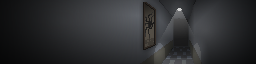
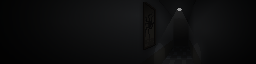
Feature: WIP settings screen

diff --git a/src/game/main_menu.go b/src/game/main_menu.go
@@ -19,20 +19,28 @@ import (
 	"github.com/solarlune/routine/actions"
 )
 
+const (
+	MENU_START = iota
+	MENU_SETTINGS
+	MENU_QUIT
+)
+
 type Main_Menu_Scene struct {
 	GameState        *Game_State
 	TimerSys         *ebitick.TimerSystem
 	CurrentStateName string
 	Routine          *routine.Routine
-	TitleText        *Text
-	SubtitleText     *Text
-	SubtitleFader    *effects.Fader
+	TextTitle        *Text
+	TextSubtitle     *Text
+	FaderSubtitle    *effects.Fader
 	ShowMenuTexts    bool
 	CanInteract      bool
-	DeskAnim         *AnimationPlayer
+	AnimDesk         *AnimationPlayer
+	AnimHallway      *AnimationPlayer
 	Flickering       bool
 	Texts            []*Text
 	CurrentIdx       int
+	SelectedIdx      int
 	Layer            *Layer
 }
 
@@ -66,7 +74,7 @@ func NewMainMenuScene(gameState *Game_State) *Main_Menu_Scene {
 	titleTxt.SetPos(conf.GAME_W/2, conf.GAME_H/2)
 	titleTxt.SetAlign(text.AlignCenter, text.AlignCenter)
 	titleTxt.SetColor(1, 1, 1, 1)
-	scene.TitleText = titleTxt
+	scene.TextTitle = titleTxt
 
 	resFontJamboree18 := gameState.Loader.LoadFont(assets.FontJamboree18)
 	keys := scene.GameState.InputHandler.ActionKeyNames(ActionEnter, input.KeyboardDevice)
@@ -77,28 +85,39 @@ func NewMainMenuScene(gameState *Game_State) *Main_Menu_Scene {
 	subtitleTxt.SetPos(conf.GAME_W/2, conf.GAME_H/2+titleTxt.DO.LineSpacing*2)
 	subtitleTxt.SetAlign(text.AlignCenter, text.AlignCenter)
 	subtitleTxt.SetColor(1, 1, 1, 1)
-	scene.SubtitleText = subtitleTxt
-	scene.SubtitleFader = effects.NewFader(0, 1, 1)
-	scene.SubtitleFader.Stopped = true
-
-	resDesk := gameState.Loader.LoadImage(assets.ImageSheetDesk)
+	scene.TextSubtitle = subtitleTxt
+	scene.FaderSubtitle = effects.NewFader(0, 1, 1)
+	scene.FaderSubtitle.Stopped = true
 
 	deskFrameW, deskFrameH := assets.SheetDeskFrameData.W, assets.SheetDeskFrameData.H
 	scaleDesk := float64(min(conf.GAME_W/deskFrameW, conf.GAME_H/deskFrameH))
-
-	scene.DeskAnim = NewAnimationPlayer(resDesk.Data)
-	scene.DeskAnim.AddStateAnimation("row1", 0, 0, deskFrameW, deskFrameH, assets.SheetDeskFrameData.MaxCols, false)
-	scene.DeskAnim.AddStateAnimation("row2", 0, 64, deskFrameW, deskFrameH, assets.SheetDeskFrameData.MaxCols, false)
-	scene.DeskAnim.AddStateAnimation("row3", 0, 128, deskFrameW, deskFrameH, 1, false)
-	scene.DeskAnim.AddStateAnimation("static", deskFrameW, 128, deskFrameW, deskFrameH, 1, false)
-	scene.DeskAnim.SetFPS(7)
-	utils.DIOReplaceAlpha(scene.DeskAnim.DIO, 1)
-	scene.DeskAnim.Update()
-
-	scene.DeskAnim.DIO.GeoM.Scale(scaleDesk, scaleDesk)
-	scene.DeskAnim.DIO.GeoM.Translate(
+	resDesk := gameState.Loader.LoadImage(assets.ImageSheetDesk)
+	scene.AnimDesk = NewAnimationPlayer(resDesk.Data)
+	scene.AnimDesk.AddStateAnimation("row1", 0, 0, deskFrameW, deskFrameH, assets.SheetDeskFrameData.MaxCols, false)
+	scene.AnimDesk.AddStateAnimation("row2", 0, 64, deskFrameW, deskFrameH, assets.SheetDeskFrameData.MaxCols, false)
+	scene.AnimDesk.AddStateAnimation("row3", 0, 128, deskFrameW, deskFrameH, 1, false)
+	scene.AnimDesk.AddStateAnimation("static", deskFrameW, 128, deskFrameW, deskFrameH, 1, false)
+	scene.AnimDesk.SetFPS(7)
+	utils.DIOReplaceAlpha(scene.AnimDesk.DIO, 1)
+	scene.AnimDesk.Update()
+	scene.AnimDesk.DIO.GeoM.Scale(scaleDesk, scaleDesk)
+	scene.AnimDesk.DIO.GeoM.Translate(
 		conf.GAME_W/2-float64(deskFrameW)*scaleDesk/2,
 		conf.GAME_H/2-float64(deskFrameH)*scaleDesk/2,
+	)
+
+	hallwayFrameW, hallwayFrameH := assets.BGHallwayFrameData.W, assets.BGHallwayFrameData.H
+	scaleHallway := float64(min(conf.GAME_W/hallwayFrameW, conf.GAME_H/hallwayFrameH))
+	resHallway := gameState.Loader.LoadImage(assets.ImageBGHallway)
+	scene.AnimHallway = NewAnimationPlayer(resHallway.Data)
+	scene.AnimHallway.AddStateAnimation("row1", 0, 0, hallwayFrameW, hallwayFrameH, assets.BGHallwayFrameData.MaxCols, false)
+	scene.AnimHallway.SetFPS(0)
+	utils.DIOReplaceAlpha(scene.AnimHallway.DIO, 1)
+	scene.AnimHallway.Update()
+	scene.AnimHallway.DIO.GeoM.Scale(scaleHallway, scaleHallway)
+	scene.AnimHallway.DIO.GeoM.Translate(
+		conf.GAME_W/2-float64(hallwayFrameW)*scaleHallway/2,
+		conf.GAME_H/2-float64(hallwayFrameH)*scaleHallway/2,
 	)
 
 	spaceY := float64(8)
@@ -122,7 +141,7 @@ func NewMainMenuScene(gameState *Game_State) *Main_Menu_Scene {
 		actions.NewFunction(func(block *routine.Block) routine.Flow {
 			scene.CurrentStateName = "title text animation"
 			if scene.GameState.SceneManager.IsFadeInFinished() {
-				scene.SubtitleFader.Stopped = false
+				scene.FaderSubtitle.Stopped = false
 				return routine.FlowNext
 			}
 			return routine.FlowIdle
@@ -131,12 +150,12 @@ func NewMainMenuScene(gameState *Game_State) *Main_Menu_Scene {
 			scene.CurrentStateName = "waiting input"
 			if scene.GameState.InputHandler.ActionIsJustPressed(ActionEnter) {
 				scene.CurrentStateName = "showing menu..."
-				scene.SubtitleFader.Alpha = 0
-				scene.SubtitleFader.Stopped = true
+				scene.FaderSubtitle.Alpha = 0
+				scene.FaderSubtitle.Stopped = true
 
-				utils.DOReplaceAlpha(scene.TitleText.DO, 0)
-				scene.DeskAnim.SetStateReset("row1")
-				scene.DeskAnim.Update()
+				utils.DOReplaceAlpha(scene.TextTitle.DO, 0)
+				scene.AnimDesk.SetStateReset("row1")
+				scene.AnimDesk.Update()
 
 				return routine.FlowNext
 			}
@@ -146,11 +165,14 @@ func NewMainMenuScene(gameState *Game_State) *Main_Menu_Scene {
 			scene.CurrentStateName = "finished"
 			scene.ShowMenuTexts = true
 
+			scene.TimerSys.After(time.Second/2, func() {
+				scene.CanInteract = true
+			})
+
 			waitFor := utils.IntRandRange(1, 3)
 			scene.CurrentStateName = "waiting flicker... " + strconv.Itoa(waitFor)
 			scene.TimerSys.After(time.Second*time.Duration(waitFor), func() {
 				scene.RandomFlicker()
-				scene.CanInteract = true
 			})
 
 			return routine.FlowIdle
@@ -166,14 +188,14 @@ func (scene *Main_Menu_Scene) RandomFlicker() {
 	scene.Flickering = rand.IntN(100) >= 60
 	if scene.Flickering {
 		scene.CurrentStateName = "flickering"
-		scene.DeskAnim.SetFPS(float64(utils.IntRandRange(4, 8)))
+		scene.AnimDesk.SetFPS(float64(utils.IntRandRange(4, 8)))
 	} else {
 		waitFor := utils.IntRandRange(2, 4)
 		scene.CurrentStateName = "waiting flicker... " + strconv.Itoa(waitFor)
 		scene.TimerSys.After(time.Second*time.Duration(waitFor), func() {
 			scene.RandomFlicker()
 		})
-		scene.DeskAnim.SetStateReset("row1")
+		scene.AnimDesk.SetStateReset("row1")
 	}
 }
 
@@ -181,17 +203,17 @@ func (scene *Main_Menu_Scene) Update() error {
 	scene.TimerSys.Update()
 	scene.Routine.Update()
 
-	scene.SubtitleFader.Update()
-	scene.SubtitleText.DO.ColorScale = *scene.SubtitleFader.GetCS()
+	scene.FaderSubtitle.Update()
+	scene.TextSubtitle.DO.ColorScale = *scene.FaderSubtitle.GetCS()
 
 	if scene.Flickering {
-		scene.DeskAnim.Update()
-		if scene.DeskAnim.IsInLastFrame() {
-			switch scene.DeskAnim.State() {
+		scene.AnimDesk.Update()
+		if scene.AnimDesk.IsInLastFrame() {
+			switch scene.AnimDesk.State() {
 			case "row1":
-				scene.DeskAnim.SetStateReset("row2")
+				scene.AnimDesk.SetStateReset("row2")
 			case "row2":
-				scene.DeskAnim.SetStateReset("row3")
+				scene.AnimDesk.SetStateReset("row3")
 			case "row3":
 				scene.RandomFlicker()
 			}
@@ -206,9 +228,9 @@ func (scene *Main_Menu_Scene) Update() error {
 			scene.CurrentIdx++
 		} else if inputHandler.ActionIsJustReleased(ActionEnter) {
 			switch scene.CurrentIdx {
-			case 0: //TODO: (Brandon) - go to game
-			case 1: //TODO: (Brandon) - go to game
-			case 2:
+			case MENU_START: //TODO: (Brandon) - go to game
+			case MENU_SETTINGS: scene.SelectedIdx = MENU_SETTINGS
+			case MENU_QUIT:
 				return common.ERR_QUIT
 			default:
 				panic(scene.CurrentIdx)
@@ -224,9 +246,13 @@ func (scene *Main_Menu_Scene) Draw(screen *ebiten.Image) {
 	canvas := scene.Layer.Canvas
 	canvas.Clear()
 
-	canvas.DrawImage(scene.DeskAnim.CurrentFrame, scene.DeskAnim.DIO)
-	scene.TitleText.Draw(canvas)
-	scene.SubtitleText.Draw(canvas)
+	if scene.SelectedIdx == MENU_SETTINGS {
+		canvas.DrawImage(scene.AnimHallway.CurrentFrame, scene.AnimHallway.DIO)
+	} else {
+		canvas.DrawImage(scene.AnimDesk.CurrentFrame, scene.AnimDesk.DIO)
+		scene.TextTitle.Draw(canvas)
+		scene.TextSubtitle.Draw(canvas)
+	}
 
 	if scene.ShowMenuTexts {
 		for i, txt := range scene.Texts {

diff --git a/src/assets/framedata.go b/src/assets/framedata.go
@@ -7,4 +7,5 @@ type FrameData struct {
 var (
 	SheetWitsFrameData = FrameData{W: 256, H: 128, MaxCols: 3}
 	SheetDeskFrameData = FrameData{W: 256, H: 64, MaxCols: 3}
+	BGHallwayFrameData = FrameData{W: 256, H: 64, MaxCols: 1}
 )
